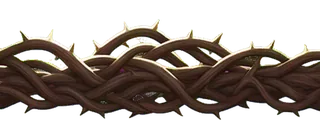
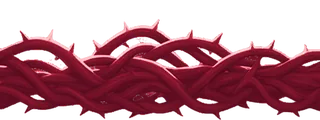
Skin trials read at a glance: pieces fitted to the walk line, a lit top edge, the backdrop veiled
A trial's piece was drawn to the whole box of the stand-in it replaces, so a small perch in a tall
stand-in showed up to 120 px above where the owl stands, and the course read wrong though it played
the same. Each trial piece is now fitted to the stand-in's measured outline, so its drawn top is the
walk line; a run's right end is mirrored; what an owl stands on gets a lit top edge; and on a trial
the backdrop sits under a dark, flat veil. The course, its collision and what visitors see do not
change.

The sheet cutter now ends with readability checks: what an owl stands on is lighter than the realm's
backdrop and lit along its top, and the hazard is far from it in colour. The forest trial is cut
again from a sheet that passes them, its thorns berry red.

diff --git a/apps/park/src/game/skinTrial.ts b/apps/park/src/game/skinTrial.ts
@@ -9,8 +9,13 @@
  * delivered slot's. One piece the slots don't have is drawn too: the skin sheet's updraft bits
  * (cell C6), cut into square frames, rise in the realm's updrafts in place of the drawn leaf
  * (`kit-<realm>-updraft-bits`).
+ *
+ * What an owl can stand on has to read at a glance, whatever the sheet: a trial's piece is drawn to
+ * the outline of the stand-in it replaces (fitTrialArt), so its drawn top is the walk line the course
+ * plays on, and what an owl stands on gets a lit top edge. Behind it, the backdrop sits back under a
+ * veil (TRIAL_BACKDROP_VEIL). The course itself (its perches, hazards and collision) is unchanged.
  */
-import { KIT_ART, kitSlotBase } from '@owl-park/shared';
+import { KIT_ART, kitSlotBase, type KitArtSpec } from '@owl-park/shared';
 import { rasterNames } from './artNames';
 
 const STORE = 'owl-park-skin';
@@ -44,4 +49,121 @@ export function trialFilesOf(key: string, skin: string | null, published: Readon
   if (!KIT_ART[key]?.slot && !base.endsWith('-updraft-bits')) return null;
   const files = `trial-${skin}-${base}`;
   return rasterNames(files, 1, published).length > 0 ? files : null;
+}
+
+/** The slots an owl stands on: their trial art gets a lit top edge, so safe ground reads as safe. */
+export const STANDABLE_SLOTS: ReadonlySet<string> = new Set(['perch-end', 'perch-mid', 'perch-small', 'roost', 'slope']);
+
+/** The veil over a trial's backdrop: dark and flat, so the backdrop sits back behind what an owl plays on. */
+export const TRIAL_BACKDROP_VEIL = { colour: 0x14202a, alpha: 0.42 };
+
+/** How far down from its top edge the lit edge reaches (piece px), and how much it lightens. */
+export const RIM = { depth: 6, lift: 0.45 };
+
+/** A box in an image's pixels: x0, y0 inclusive; x1, y1 exclusive. */
+export interface Box {
+  x0: number;
+  y0: number;
+  x1: number;
+  y1: number;
+}
+
+/**
+ * Where an image's art is (alpha over 40), as tools/kit/measure.py measures a piece: its columns and
+ * lowest row over the whole image, its top across the middle half of the art's width (so a raised
+ * end does not set the walk line). Null for an empty image.
+ */
+export function artBox(alpha: ArrayLike<number>, w: number, h: number): Box | null {
+  const solid = (x: number, y: number) => alpha[y * w + x]! > 40;
+  let x0 = w, x1 = 0, y1 = 0;
+  for (let y = 0; y < h; y++) for (let x = 0; x < w; x++) if (solid(x, y)) { if (x < x0) x0 = x; if (x + 1 > x1) x1 = x + 1; if (y + 1 > y1) y1 = y + 1; }
+  if (x1 <= x0) return null;
+  const m0 = x0 + Math.floor((x1 - x0) / 4), m1 = x1 - Math.floor((x1 - x0) / 4);
+  let y0 = h;
+  for (let y = 0; y < h && y0 === h; y++) for (let x = m0; x < m1; x++) if (solid(x, y)) { y0 = y; break; }
+  return { x0, y0: Math.min(y0, y1 - 1), x1, y1 };
+}
+
+/**
+ * Where a trial's art goes in a stand-in's box (both in the texture's pixels, `k` texture px to a
+ * piece px): its art box onto the stand-in's measured outline, so the art's top is the stand-in's
+ * top, the walk line. Null when the stand-in was not measured (a texture, a backdrop).
+ */
+export function fitRect(spec: Pick<KitArtSpec, 'w' | 'h' | 'top' | 'foot' | 'left' | 'right'>, k: number): Box | null {
+  if (spec.top === undefined || spec.foot === undefined) return null;
+  const left = spec.left ?? 0, right = spec.right ?? spec.w;
+  if (right <= left || spec.foot <= spec.top) return null;
+  return { x0: Math.round(left * k), y0: Math.round(spec.top * k), x1: Math.round(right * k), y1: Math.round(spec.foot * k) };
+}
+
+/** Whether a stand-in is a run's right end: the trial's one end piece is mirrored there. */
+export function isRightEnd(key: string): boolean {
+  return /cap-right$/.test(KIT_ART[key]?.standIn ?? key);
+}
+
+/**
+ * A trial's piece redrawn for the stand-in `key` it replaces: the art fitted to the stand-in's
+ * outline (fitRect), mirrored for a run's right end, and lit along its top edge where an owl stands
+ * on it. Null when the key needs no fitting (not a measured slot piece) or the image is empty.
+ */
+export function fitTrialArt(img: CanvasImageSource & { width: number; height: number }, key: string): HTMLCanvasElement | null {
+  const spec = KIT_ART[key];
+  if (!spec?.slot || spec.kind !== 'piece') return null;
+  const k = img.width / spec.w;
+  const to = fitRect(spec, k);
+  if (!to) return null;
+  const src = document.createElement('canvas');
+  src.width = img.width;
+  src.height = img.height;
+  const sg = src.getContext('2d', { willReadFrequently: true });
+  if (!sg) return null;
+  sg.drawImage(img, 0, 0);
+  const data = sg.getImageData(0, 0, src.width, src.height).data;
+  const alpha = new Uint8ClampedArray(src.width * src.height);
+  for (let i = 0; i < alpha.length; i++) alpha[i] = data[i * 4 + 3]!;
+  const from = artBox(alpha, src.width, src.height);
+  if (!from) return null;
+  const out = document.createElement('canvas');
+  out.width = img.width;
+  out.height = img.height;
+  const g = out.getContext('2d', { willReadFrequently: true });
+  if (!g) return null;
+  g.save();
+  if (isRightEnd(key)) {
+    g.translate(out.width, 0);
+    g.scale(-1, 1);
+  }
+  const dx = isRightEnd(key) ? out.width - to.x1 : to.x0;
+  g.drawImage(src, from.x0, from.y0, from.x1 - from.x0, from.y1 - from.y0, dx, to.y0, to.x1 - to.x0, to.y1 - to.y0);
+  g.restore();
+  if (STANDABLE_SLOTS.has(spec.slot)) lightTopEdge(g, out.width, out.height, Math.max(2, Math.round(RIM.depth * k)));
+  return out;
+}
+
+/** Lightens each column's first `depth` opaque pixels: a lit edge that follows the piece's top. */
+function lightTopEdge(g: CanvasRenderingContext2D, w: number, h: number, depth: number): void {
+  const im = g.getImageData(0, 0, w, h);
+  const d = im.data;
+  for (let x = 0; x < w; x++) {
+    let y = 0;
+    while (y < h && d[(y * w + x) * 4 + 3]! <= 40) y++;
+    for (let i = 0; i < depth && y + i < h; i++) {
+      const p = ((y + i) * w + x) * 4;
+      const t = RIM.lift * (1 - i / depth);
+      for (let c = 0; c < 3; c++) d[p + c] = d[p + c]! + (255 - d[p + c]!) * t;
+    }
+  }
+  g.putImageData(im, 0, 0);
+}
+
+let veiled = false;
+
+/** Whether this page draws a skin trial's backdrop veiled (set by art.ts's useSkinTrial). */
+export function trialBackdropVeiled(): boolean {
+  return veiled;
+}
+
+/** Called by art.ts when a trial is turned on or off for the page. */
+export function setTrialBackdropVeil(on: boolean): void {
+  veiled = on;
 }

diff --git a/apps/park/src/game/art.ts b/apps/park/src/game/art.ts
@@ -17,7 +17,7 @@ import { ART_BYTES, PUBLISHED_ART, versioned } from './publishedArt';
 import { drawKitOps } from './kitView';
 import { loadSvgTexture } from './svgLoader';
 import { boxable, paintSizeBox } from './sizeBoxes';
-import { trialFilesOf, updraftBitsKey } from './skinTrial';
+import { fitTrialArt, setTrialBackdropVeil, trialFilesOf, updraftBitsKey } from './skinTrial';
 
 export const ART_PATH = 'art/';
 export const OWL_W = 200;
@@ -38,6 +38,7 @@ let skin: string | null = null;
 /** A skin trial for this page (`?skin=<name>`, skinTrial.ts): the realm slots it has files for draw from them. */
 export function useSkinTrial(name: string | null): void {
   skin = name;
+  setTrialBackdropVeil(!!name);
 }
 
 /** The key whose files a key's art loads from: a skin trial's when this page draws one for it, else kitFilesOf's. */
@@ -1211,10 +1212,16 @@ export async function loadArtKey(scene: Phaser.Scene, key: string, scale: number
   if (drawnAsSizeBox(key)) return makeSizeBox(scene, key, spec);
   const url = baseUrl();
   if (PUBLISHED_ART.has(`${filesOf(key)}.svg`) && (await loadSvgTexture(scene, key, `${url}${versioned(`${filesOf(key)}.svg`)}`, Math.round(spec.w * scale), Math.round(spec.h * scale)))) return true;
+  // A skin trial's piece is redrawn to the outline of the stand-in it replaces (skinTrial.ts), so its top is the walk line.
+  const trial = !!trialFilesOf(key, skin, PUBLISHED_ART);
   for (const c of rasterCandidates(url, filesOf(key), scale, PUBLISHED_ART)) {
     const img = await (onBytes ? streamImage(c, onBytes) : loadImage(c));
     if (img) {
-      if (!scene.textures.exists(key)) scene.textures.addImage(key, img);
+      if (!scene.textures.exists(key)) {
+        const fitted = trial ? fitTrialArt(img, key) : null;
+        if (fitted) scene.textures.addCanvas(key, fitted);
+        else scene.textures.addImage(key, img);
+      }
       return true;
     }
   }
@@ -1431,4 +1438,9 @@ function drawOwlPlaceholder(g: Phaser.GameObjects.Graphics, key: string): void {
       g.fillTriangle(92, 96, 108, 96, 100, 112);
       break;
   }
+}
+
+/** Whether this page draws a skin trial in this room: it has a trial on and the room draws a slot the trial has files for. */
+export function drawsSkinTrial(roomId: string, room?: RoomDef): boolean {
+  return !!skin && roomArtKeys(roomId, room).some((k) => trialFilesOf(k, skin, PUBLISHED_ART) !== null);
 }

diff --git a/apps/park/src/game/skinTrial.test.ts b/apps/park/src/game/skinTrial.test.ts
@@ -1,5 +1,6 @@
 import { describe, expect, it } from 'vitest';
-import { skinTrialWanted, trialFilesOf, updraftBitsKey } from './skinTrial';
+import { KIT_ART } from '@owl-park/shared';
+import { artBox, fitRect, isRightEnd, skinTrialWanted, trialFilesOf, updraftBitsKey } from './skinTrial';
 
 const memory = () => {
   const m = new Map<string, string>();
@@ -33,5 +34,28 @@ describe('skin trials (?skin=)', () => {
     expect(trialFilesOf('kit-clearing-perch-small--clearing-bough-perch', 'forest', published)).toBeNull();
     expect(trialFilesOf('kit-clearing-perch-small--clearing-bough-perch', null, published)).toBeNull();
     expect(trialFilesOf('hub', 'dusk', published)).toBeNull();
+  });
+
+  it('measure a piece’s art as the kit measures it: its top across the middle half, so a raised end does not set it', () => {
+    // 10 x 6: a bar on rows 3 to 5, and a post at the left end rising to row 0.
+    const w = 10, h = 6, a = new Array(w * h).fill(0);
+    for (let y = 3; y < 6; y++) for (let x = 1; x < 9; x++) a[y * w + x] = 255;
+    for (let y = 0; y < 3; y++) a[y * w + 1] = 255;
+    expect(artBox(a, w, h)).toEqual({ x0: 1, y0: 3, x1: 9, y1: 6 });
+    expect(artBox(new Array(w * h).fill(0), w, h)).toBeNull();
+  });
+
+  it('fit the trial’s art to the stand-in’s outline, so its drawn top is the walk line the course plays on', () => {
+    const tall = KIT_ART['kit-clearing-perch-small--clearing-bough-end-perch']!;
+    // A 240 x 60 perch drawn into a 240 x 200 stand-in starts at its walk line, 120 px down, not at the top of the box.
+    expect(fitRect(tall, 2)).toEqual({ x0: tall.left! * 2, y0: tall.top! * 2, x1: tall.right! * 2, y1: tall.foot! * 2 });
+    expect(tall.top).toBeGreaterThan(100);
+    // A texture or a backdrop is not fitted.
+    expect(fitRect(KIT_ART['kit-clearing-texture-ground--tex-clearing-fern-floor']!, 1)).toBeNull();
+  });
+
+  it('mirror the one end piece at a run’s right end', () => {
+    expect(isRightEnd('kit-clearing-perch-end--cut-earth-path-cap-right')).toBe(true);
+    expect(isRightEnd('kit-clearing-perch-end--cut-earth-path-cap-left')).toBe(false);
   });
 });

diff --git a/apps/park/src/game/RoomScene.ts b/apps/park/src/game/RoomScene.ts
@@ -168,7 +168,8 @@ import { WindStreaks } from './windStreaks';
 import { BrushInk } from './brushInk';
 import { NeonSigns } from './neonSigns';
 import { courseFor, drawPlaceholderRoom, type Course } from './course';
-import { PUZZLE_ART_KEYS, artScale, drawnAsSizeBox, loadArt, opensSoft, prefetchRoomArt, releaseArt, roomArtCap, roomArtKeys, roomOpeningArt, sharpCopy, sharpenArt } from './art';
+import { TRIAL_BACKDROP_VEIL, trialBackdropVeiled } from './skinTrial';
+import { PUZZLE_ART_KEYS, artScale, drawnAsSizeBox, drawsSkinTrial, loadArt, opensSoft, prefetchRoomArt, releaseArt, roomArtCap, roomArtKeys, roomOpeningArt, sharpCopy, sharpenArt } from './art';
 import { SpeechBubbles } from './bubbles';
 import { doorwayUnder, doorwaysOff, roomsAhead, takesDoorway, upCounts } from './doors';
 import { admitTarget } from './gateAdmit';
@@ -884,6 +885,10 @@ export class RoomScene extends Phaser.Scene {
     }
     // Seen from above, where an owl can walk reads at a glance: the floor edged, the rest veiled (walkFloor.ts).
     this.floorShown = mapOf(room) !== 2 && !room.drawn && !!drawWalkFloor(this, room, this.cfg.sizes, -0.6);
+    // On a skin trial (?skin=, skinTrial.ts), the backdrop sits back under a dark, flat veil, so what an owl plays on reads first.
+    if (art.kit && trialBackdropVeiled() && drawsSkinTrial(art.id, art)) {
+      this.add.rectangle(-2000, -2000, room.size.w + 4000, room.size.h + 4000, TRIAL_BACKDROP_VEIL.colour, TRIAL_BACKDROP_VEIL.alpha).setOrigin(0).setDepth(-0.98);
+    }
     // The kit's surfaces, platforms and pieces over its backdrops; its front props over the owls, under the overlay.
     if (art.kit) drawKit(this, art, { back: -0.97, play: -0.95, piece: -0.93, front: room.size.h + 50 });
     this.pieces = addSetPieces(this, room, (pointer, event) => this.onIdolTap(pointer, event));

diff --git a/tools/kit/skin_sheet.py b/tools/kit/skin_sheet.py
@@ -29,12 +29,17 @@ middle and the end mirrored), marked as made here in the summary; a drawn C11 al
 (game size) and @2x.webp (delivered size), which the park draws in place of the realm's slots only
 on a page opened with `?skin=<name>` (apps/park/src/game/skinTrial.ts); visitors see no change.
 --pieces adds slot-named files from a folder (knot-hole.png, plant.png ...) to the trial as they are.
+
+Every cut ends with the readability checks (READABILITY), which a sheet should pass before a course
+is built on it: what an owl stands on is lighter than the realm's backdrop and lit along its top
+edge, and the hazard looks nothing like what an owl stands on. They warn; they do not refuse.
 Needs Pillow.
 """
 from __future__ import annotations
 
 import argparse
 import csv
+import math
 import sys
 from pathlib import Path
 
@@ -195,6 +200,94 @@ def cut(sheet: Image.Image, derive_small: bool = False) -> tuple[dict[str, Image
     return out, notes
 
 
+# What a sheet must do so a course on it reads at a glance (the kit template's readability rules, A8).
+READABILITY = {
+    # What an owl stands on is this much lighter (CIELAB L*) than the realm's mid backdrop.
+    'stand_over_backdrop': 15,
+    # The hazard is at least this far (CIELAB delta E) from what an owl stands on and from the ground.
+    'hazard_apart': 30,
+    # The top edge (its first 6 game px down each column) is this much lighter than the piece's body.
+    'lit_edge': 8,
+}
+STANDABLE = ('perch-mid', 'perch-small', 'roost')
+
+
+def _lab(rgb: tuple[int, int, int]) -> tuple[float, float, float]:
+    def lin(c: float) -> float:
+        c /= 255
+        return ((c + 0.055) / 1.055) ** 2.4 if c > 0.04045 else c / 12.92
+    r, g, b = (lin(v) for v in rgb)
+    x = (0.4124 * r + 0.3576 * g + 0.1805 * b) / 0.95047
+    y = 0.2126 * r + 0.7152 * g + 0.0722 * b
+    z = (0.0193 * r + 0.1192 * g + 0.9505 * b) / 1.08883
+    f = lambda t: t ** (1 / 3) if t > 0.008856 else 7.787 * t + 16 / 116  # noqa: E731
+    return 116 * f(y) - 16, 500 * (f(x) - f(y)), 200 * (f(y) - f(z))
+
+
+def _pixels(img: Image.Image) -> list[tuple[int, int, int, int]]:
+    small = img.convert('RGBA')
+    small.thumbnail((160, 160))
+    data = small.get_flattened_data() if hasattr(small, 'get_flattened_data') else small.getdata()
+    return list(data), small.size
+
+
+def mean_lab(img: Image.Image) -> tuple[float, float, float] | None:
+    """The mean colour (CIELAB) of an image's opaque pixels, or None for an empty one."""
+    px, _ = _pixels(img)
+    labs = [_lab(p[:3]) for p in px if p[3] > 128]
+    if not labs:
+        return None
+    return tuple(sum(c[i] for c in labs) / len(labs) for i in range(3))  # type: ignore[return-value]
+
+
+def top_edge_lift(img: Image.Image, game_px: int = 6) -> float | None:
+    """How much lighter (L*) a piece's top edge is than the rest of it: its first `game_px` game
+    pixels of art down each column (of a cut file, at the delivered size) against the rows below."""
+    px, (w, h) = _pixels(img)
+    band = max(1, round(game_px * 2 * h / img.height))  # cut files are at the delivered size, 2 px to a game px
+    edge, body = [], []
+    for x in range(w):
+        col = [px[y * w + x] for y in range(h)]
+        top = next((y for y, p in enumerate(col) if p[3] > 128), None)
+        if top is None:
+            continue
+        for y in range(top, h):
+            if col[y][3] <= 128:
+                continue
+            (edge if y < top + band else body).append(_lab(col[y][:3])[0])
+    if not edge or not body:
+        return None
+    return sum(edge) / len(edge) - sum(body) / len(body)
+
+
+def readability(files: dict[str, Image.Image], backdrop: Image.Image | None = None) -> list[str]:
+    """A line for each readability rule a cut sheet breaks (READABILITY); none when it reads."""
+    notes = []
+    lab = {k: mean_lab(v) for k, v in files.items()}
+    stands = [k for k in STANDABLE if lab.get(k)]
+    if backdrop is not None and (back := mean_lab(backdrop)):
+        for k in stands:
+            if lab[k][0] < back[0] + READABILITY['stand_over_backdrop']:
+                notes.append(f'readability: {k} is not lighter than the backdrop (L* {lab[k][0]:.0f} against {back[0]:.0f}; it needs {back[0] + READABILITY["stand_over_backdrop"]:.0f} or more), so it melts into it')
+    if lab.get('hazard'):
+        for k in [*stands, 'texture-ground']:
+            if lab.get(k) and math.dist(lab['hazard'], lab[k]) < READABILITY['hazard_apart']:
+                notes.append(f'readability: the hazard looks too like {k} (colour difference {math.dist(lab["hazard"], lab[k]):.0f}; it needs {READABILITY["hazard_apart"]} or more), so danger and safe ground read the same')
+    for k in stands:
+        lift = top_edge_lift(files[k])
+        if lift is not None and lift < READABILITY['lit_edge']:
+            notes.append(f'readability: {k} has no lit top edge (it is {lift:.0f} L* lighter than its body; it needs {READABILITY["lit_edge"]}), so where an owl lands is hard to see')
+    return notes
+
+
+def realm_backdrop(realm: str) -> Image.Image | None:
+    """The realm's mid backdrop as the park draws it today, to judge a sheet against."""
+    for p in sorted(ART.glob(f'kit-{realm}-mid-*.webp')) + sorted(ART.glob(f'kit-{realm}-mid-*.png')):
+        if '@2x' not in p.name:
+            return Image.open(p)
+    return None
+
+
 def publish_trial(files: dict[str, Image.Image], name: str, realm: str) -> list[str]:
     """Write the trial's files into public/art: 1x at game size and @2x at the delivered size."""
     sizes = slot_sizes()
@@ -232,7 +325,7 @@ def main(argv: list[str] | None = None) -> int:
     for slot, img in files.items():
         img.save(a.out / f'{slot}.png')
     print(f'cut {len(files)} files into {a.out}')
-    for n in notes:
+    for n in notes + readability(files, realm_backdrop(a.realm)):
         print(f'  - {n}')
     if a.trial:
         trial = dict(files)

diff --git a/tools/kit/test_skin_sheet.py b/tools/kit/test_skin_sheet.py
@@ -91,3 +91,29 @@ class SkinSheetTest(unittest.TestCase):
 
 if __name__ == '__main__':
     unittest.main()
+
+
+def block(w, h, rgb, top_rgb=None, top=12):
+    im = Image.new('RGBA', (w, h), rgb + (255,))
+    if top_rgb:
+        ImageDraw.Draw(im).rectangle([0, 0, w - 1, top - 1], fill=top_rgb + (255,))
+    return im
+
+
+class ReadabilityTest(unittest.TestCase):
+    def test_a_sheet_that_reads_passes(self):
+        files = {'perch-mid': block(640, 240, (150, 120, 80), (220, 200, 150)), 'hazard': block(640, 240, (190, 30, 60)), 'texture-ground': block(512, 512, (90, 140, 60))}
+        self.assertEqual(ss.readability(files, block(800, 450, (40, 60, 50))), [])
+
+    def test_safe_ground_that_melts_into_the_backdrop_is_named(self):
+        notes = ss.readability({'perch-mid': block(640, 240, (60, 70, 50), (90, 100, 80))}, block(800, 450, (60, 70, 50)))
+        self.assertTrue(any('perch-mid is not lighter than the backdrop' in n for n in notes))
+
+    def test_a_hazard_in_the_ground_s_colours_is_named(self):
+        notes = ss.readability({'perch-mid': block(640, 240, (150, 120, 80), (220, 200, 150)), 'hazard': block(640, 240, (140, 115, 80))})
+        self.assertTrue(any('hazard looks too like perch-mid' in n for n in notes))
+
+    def test_a_perch_with_no_lit_top_edge_is_named(self):
+        notes = ss.readability({'perch-small': block(480, 120, (150, 120, 80))})
+        self.assertTrue(any('perch-small has no lit top edge' in n for n in notes))
+
